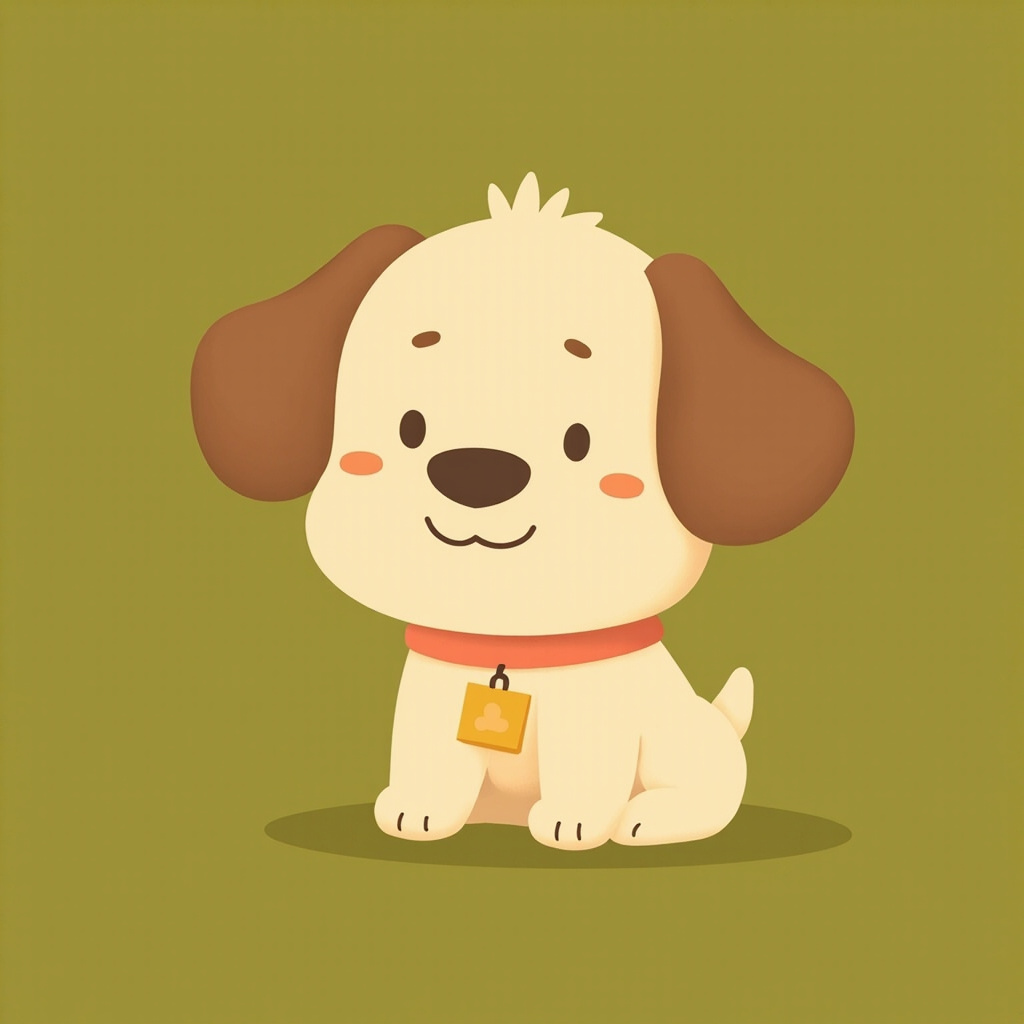
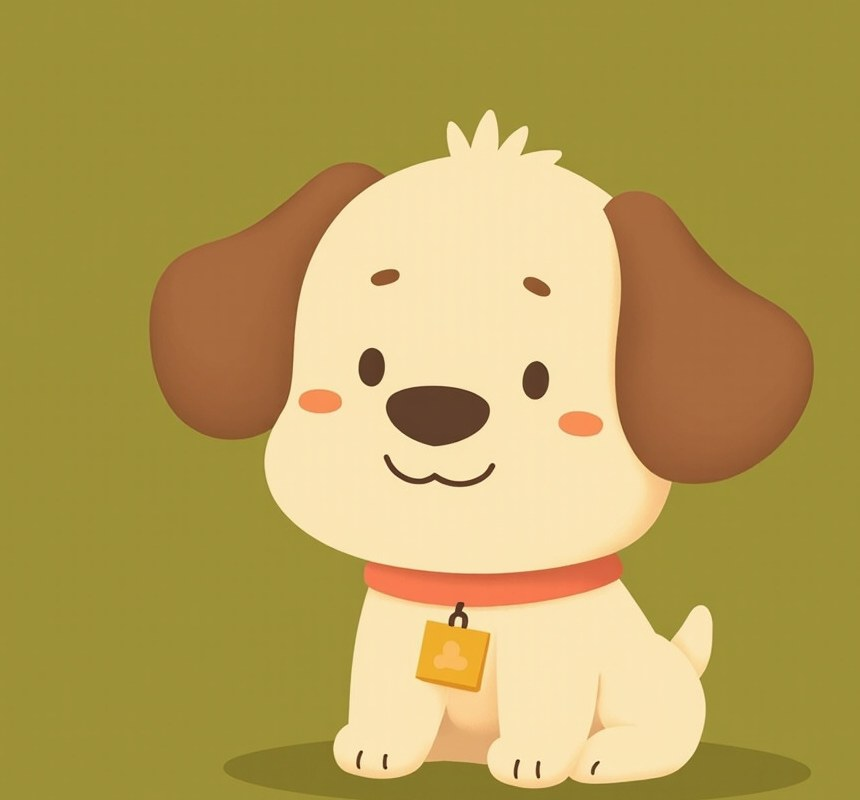
assets: chapter mascot scenes, 24 integrations, phosphor in marketing
- 4 chapter illustrations from the C1 pup via --subject-ref (checklist/alarm/plug/book), watermark band cropped via sharp before deploy
- connections screen expanded to 24 real-brand integrations (+13: GitLab, Jira, Confluence, Figma, Discord, Netlify, Railway, Expo, Supabase, Neon, Airtable, PostHog, Mixpanel, Docker, Google Cloud; new Design/Data categories, Connected count computed from data)
- phosphor icons in chapter eyebrows and FAQ toggle
- research/09 records watermark crop step for all future mmx outputs

diff --git a/site/components/demo/brand-marks.tsx b/site/components/demo/brand-marks.tsx
@@ -21,6 +21,21 @@ const marks: Record<string, Mark> = {
   vercel: { title: "Vercel", color: "#e4e4e7", tint: "#000000", path: "m12 1.608 12 20.784H0Z" },
   cloudflare: { title: "Cloudflare", color: "#F38020", tint: "#F38020", path: "M16.5088 16.8447c.1475-.5068.0908-.9707-.1553-1.3154-.2246-.3164-.6045-.499-1.0615-.5205l-8.6592-.1123a.1559.1559 0 0 1-.1333-.0713c-.0283-.042-.0351-.0986-.021-.1553.0278-.084.1123-.1484.2036-.1562l8.7359-.1123c1.0351-.0489 2.1601-.8868 2.5537-1.9136l.499-1.3013c.0215-.0561.0293-.1128.0147-.168-.5625-2.5463-2.835-4.4453-5.5499-4.4453-2.5039 0-4.6284 1.6177-5.3876 3.8614-.4927-.3658-1.1187-.5625-1.794-.499-1.2026.119-2.1665 1.083-2.2861 2.2856-.0283.31-.0069.6128.0635.894C1.5683 13.171 0 14.7754 0 16.752c0 .1748.0142.3515.0352.5273.0141.083.0844.1475.1689.1475h15.9814c.0909 0 .1758-.0645.2032-.1553l.12-.4268zm2.7568-5.5634c-.0771 0-.1611 0-.2383.0112-.0566 0-.1054.0415-.127.0976l-.3378 1.1744c-.1475.5068-.0918.9707.1543 1.3164.2256.3164.6055.498 1.0625.5195l1.8437.1133c.0557 0 .1055.0263.1329.0703.0283.043.0351.1074.0214.1562-.0283.084-.1132.1485-.204.1553l-1.921.1123c-1.041.0488-2.1582.8867-2.5527 1.914l-.1406.3585c-.0283.0713.0215.1416.0986.1416h6.5977c.0771 0 .1474-.0489.169-.126.1122-.4082.1757-.837.1757-1.2803 0-2.6025-2.125-4.727-4.7344-4.727" },
   stripe: { title: "Stripe", color: "#635BFF", tint: "#635BFF", path: "M13.976 9.15c-2.172-.806-3.356-1.426-3.356-2.409 0-.831.683-1.305 1.901-1.305 2.227 0 4.515.858 6.09 1.631l.89-5.494C18.252.975 15.697 0 12.165 0 9.667 0 7.589.654 6.104 1.872 4.56 3.147 3.757 4.992 3.757 7.218c0 4.039 2.467 5.76 6.476 7.219 2.585.92 3.445 1.574 3.445 2.583 0 .98-.84 1.545-2.354 1.545-1.875 0-4.965-.921-6.99-2.109l-.9 5.555C5.175 22.99 8.385 24 11.714 24c2.641 0 4.843-.624 6.328-1.813 1.664-1.305 2.525-3.236 2.525-5.732 0-4.128-2.524-5.851-6.594-7.305h.003z" },
+  jira: { title: "Jira", color: "#0052CC", tint: "#0052CC", path: "M11.571 11.513H0a5.218 5.218 0 0 0 5.232 5.215h2.13v2.057A5.215 5.215 0 0 0 12.575 24V12.518a1.005 1.005 0 0 0-1.005-1.005zm5.723-5.756H5.736a5.215 5.215 0 0 0 5.215 5.214h2.129v2.058a5.218 5.218 0 0 0 5.215 5.214V6.758a1.001 1.001 0 0 0-1.001-1.001zM23.013 0H11.455a5.215 5.215 0 0 0 5.215 5.215h2.129v2.057A5.215 5.215 0 0 0 24 12.483V1.005A1.001 1.001 0 0 0 23.013 0Z" },
+  confluence: { title: "Confluence", color: "#e4e4e7", tint: "#172B4D", path: "M.87 18.257c-.248.382-.53.875-.763 1.245a.764.764 0 0 0 .255 1.04l4.965 3.054a.764.764 0 0 0 1.058-.26c.199-.332.454-.763.733-1.221 1.967-3.247 3.945-2.853 7.508-1.146l4.957 2.337a.764.764 0 0 0 1.028-.382l2.364-5.346a.764.764 0 0 0-.382-1 599.851 599.851 0 0 1-4.965-2.361C10.911 10.97 5.224 11.185.87 18.257zM23.131 5.743c.249-.405.531-.875.764-1.25a.764.764 0 0 0-.256-1.034L18.675.404a.764.764 0 0 0-1.058.26c-.195.335-.451.763-.734 1.225-1.966 3.246-3.945 2.85-7.508 1.146L4.437.694a.764.764 0 0 0-1.027.382L1.046 6.422a.764.764 0 0 0 .382 1c1.039.49 3.105 1.467 4.965 2.361 6.698 3.246 12.392 3.029 16.738-4.04z" },
+  figma: { title: "Figma", color: "#F24E1E", tint: "#F24E1E", path: "M15.852 8.981h-4.588V0h4.588c2.476 0 4.49 2.014 4.49 4.49s-2.014 4.491-4.49 4.491zM12.735 7.51h3.117c1.665 0 3.019-1.355 3.019-3.019s-1.355-3.019-3.019-3.019h-3.117V7.51zm0 1.471H8.148c-2.476 0-4.49-2.014-4.49-4.49S5.672 0 8.148 0h4.588v8.981zm-4.587-7.51c-1.665 0-3.019 1.355-3.019 3.019s1.354 3.02 3.019 3.02h3.117V1.471H8.148zm4.587 15.019H8.148c-2.476 0-4.49-2.014-4.49-4.49s2.014-4.49 4.49-4.49h4.588v8.98zM8.148 8.981c-1.665 0-3.019 1.355-3.019 3.019s1.355 3.019 3.019 3.019h3.117V8.981H8.148zM8.172 24c-2.489 0-4.515-2.014-4.515-4.49s2.014-4.49 4.49-4.49h4.588v4.441c0 2.503-2.047 4.539-4.563 4.539zm-.024-7.51a3.023 3.023 0 0 0-3.019 3.019c0 1.665 1.365 3.019 3.044 3.019 1.705 0 3.093-1.376 3.093-3.068v-2.97H8.148zm7.704 0h-.098c-2.476 0-4.49-2.014-4.49-4.49s2.014-4.49 4.49-4.49h.098c2.476 0 4.49 2.014 4.49 4.49s-2.014 4.49-4.49 4.49zm-.097-7.509c-1.665 0-3.019 1.355-3.019 3.019s1.355 3.019 3.019 3.019h.098c1.665 0 3.019-1.355 3.019-3.019s-1.355-3.019-3.019-3.019h-.098z" },
+  discord: { title: "Discord", color: "#5865F2", tint: "#5865F2", path: "M20.317 4.3698a19.7913 19.7913 0 00-4.8851-1.5152.0741.0741 0 00-.0785.0371c-.211.3753-.4447.8648-.6083 1.2495-1.8447-.2762-3.68-.2762-5.4868 0-.1636-.3933-.4058-.8742-.6177-1.2495a.077.077 0 00-.0785-.037 19.7363 19.7363 0 00-4.8852 1.515.0699.0699 0 00-.0321.0277C.5334 9.0458-.319 13.5799.0992 18.0578a.0824.0824 0 00.0312.0561c2.0528 1.5076 4.0413 2.4228 5.9929 3.0294a.0777.0777 0 00.0842-.0276c.4616-.6304.8731-1.2952 1.226-1.9942a.076.076 0 00-.0416-.1057c-.6528-.2476-1.2743-.5495-1.8722-.8923a.077.077 0 01-.0076-.1277c.1258-.0943.2517-.1923.3718-.2914a.0743.0743 0 01.0776-.0105c3.9278 1.7933 8.18 1.7933 12.0614 0a.0739.0739 0 01.0785.0095c.1202.099.246.1981.3728.2924a.077.077 0 01-.0066.1276 12.2986 12.2986 0 01-1.873.8914.0766.0766 0 00-.0407.1067c.3604.698.7719 1.3628 1.225 1.9932a.076.076 0 00.0842.0286c1.961-.6067 3.9495-1.5219 6.0023-3.0294a.077.077 0 00.0313-.0552c.5004-5.177-.8382-9.6739-3.5485-13.6604a.061.061 0 00-.0312-.0286zM8.02 15.3312c-1.1825 0-2.1569-1.0857-2.1569-2.419 0-1.3332.9555-2.4189 2.157-2.4189 1.2108 0 2.1757 1.0952 2.1568 2.419 0 1.3332-.9555 2.4189-2.1569 2.4189zm7.9748 0c-1.1825 0-2.1569-1.0857-2.1569-2.419 0-1.3332.9554-2.4189 2.1569-2.4189 1.2108 0 2.1757 1.0952 2.1568 2.419 0 1.3332-.946 2.4189-2.1568 2.4189Z" },
+  netlify: { title: "Netlify", color: "#00C7B7", tint: "#00C7B7", path: "M6.49 19.04h-.23L5.13 17.9v-.23l1.73-1.71h1.2l.15.15v1.2L6.5 19.04ZM5.13 6.31V6.1l1.13-1.13h.23L8.2 6.68v1.2l-.15.15h-1.2L5.13 6.31Zm9.96 9.09h-1.65l-.14-.13v-3.83c0-.68-.27-1.2-1.1-1.23-.42 0-.9 0-1.43.02l-.07.08v4.96l-.14.14H8.9l-.13-.14V8.73l.13-.14h3.7a2.6 2.6 0 0 1 2.61 2.6v4.08l-.13.14Zm-8.37-2.44H.14L0 12.82v-1.64l.14-.14h6.58l.14.14v1.64l-.14.14Zm17.14 0h-6.58l-.14-.14v-1.64l.14-.14h6.58l.14.14v1.64l-.14.14ZM11.05 6.55V1.64l.14-.14h1.65l.14.14v4.9l-.14.14h-1.65l-.14-.13Zm0 15.81v-4.9l.14-.14h1.65l.14.13v4.91l-.14.14h-1.65l-.14-.14Z" },
+  railway: { title: "Railway", color: "#e4e4e7", tint: "#0B0D0E", path: "M.113 10.27A13.026 13.026 0 000 11.48h18.23c-.064-.125-.15-.237-.235-.347-3.117-4.027-4.793-3.677-7.19-3.78-.8-.034-1.34-.048-4.524-.048-1.704 0-3.555.005-5.358.01-.234.63-.459 1.24-.567 1.737h9.342v1.216H.113v.002zm18.26 2.426H.009c.02.326.05.645.094.961h16.955c.754 0 1.179-.429 1.315-.96zm-17.318 4.28s2.81 6.902 10.93 7.024c4.855 0 9.027-2.883 10.92-7.024H1.056zM11.988 0C7.5 0 3.593 2.466 1.531 6.108l4.75-.005v-.002c3.71 0 3.849.016 4.573.047l.448.016c1.563.052 3.485.22 4.996 1.364.82.621 2.007 1.99 2.712 2.965.654.902.842 1.94.396 2.934-.408.914-1.289 1.458-2.353 1.458H.391s.099.42.249.886h22.748A12.026 12.026 0 0024 12.005C24 5.377 18.621 0 11.988 0z" },
+  expo: { title: "Expo", color: "#e4e4e7", tint: "#1C2024", path: "M0 20.084c.043.53.23 1.063.718 1.778.58.849 1.576 1.315 2.303.567.49-.505 5.794-9.776 8.35-13.29a.761.761 0 011.248 0c2.556 3.514 7.86 12.785 8.35 13.29.727.748 1.723.282 2.303-.567.57-.835.728-1.42.728-2.046 0-.426-8.26-15.798-9.092-17.078-.8-1.23-1.044-1.498-2.397-1.542h-1.032c-1.353.044-1.597.311-2.398 1.542C8.267 3.991.33 18.758 0 19.77Z" },
+  airtable: { title: "Airtable", color: "#18BFFF", tint: "#18BFFF", path: "M11.992 1.966c-.434 0-.87.086-1.28.257L1.779 5.917c-.503.208-.49.908.012 1.116l8.982 3.558a3.266 3.266 0 0 0 2.454 0l8.982-3.558c.503-.196.503-.908.012-1.116l-8.957-3.694a3.255 3.255 0 0 0-1.272-.257zM23.4 8.056a.589.589 0 0 0-.222.045l-10.012 3.877a.612.612 0 0 0-.38.564v8.896a.6.6 0 0 0 .821.552L23.62 18.1a.583.583 0 0 0 .38-.551V8.653a.6.6 0 0 0-.6-.596zM.676 8.095a.644.644 0 0 0-.48.19C.086 8.396 0 8.53 0 8.69v8.355c0 .442.515.737.908.54l6.27-3.006.307-.147 2.969-1.436c.466-.22.43-.908-.061-1.092L.883 8.138a.57.57 0 0 0-.207-.044z" },
+  supabase: { title: "Supabase", color: "#3FCF8E", tint: "#3FCF8E", path: "M11.9 1.036c-.015-.986-1.26-1.41-1.874-.637L.764 12.05C-.33 13.427.65 15.455 2.409 15.455h9.579l.113 7.51c.014.985 1.259 1.408 1.873.636l9.262-11.653c1.093-1.375.113-3.403-1.645-3.403h-9.642z" },
+  neon: { title: "Neon", color: "#34D59A", tint: "#34D59A", path: "M24 0V24l-9.365-8.045V24H0V0ZM2.942 21.087h8.751V9.563l9.365 8.204V2.919L2.942 2.914Z" },
+  mixpanel: { title: "Mixpanel", color: "#7856FF", tint: "#7856FF", path: "M6.967 9.996h3.053c-.763-.477-1.048-1.145-1.431-2.384L7.443 3.366C6.919 1.458 6.49.551 4.39.551H.004v1.145h.621c1.286 0 1.431.477 1.814 1.908L3.44 7.326c.524 1.814 1.337 2.67 3.53 2.67h-.003Zm7.06 0h3.053c2.194 0 2.956-.86 3.484-2.67l1.001-3.722c.382-1.431.57-1.908 1.814-1.908H24V.551h-4.34c-2.146 0-2.576.86-3.053 2.815l-1.145 4.246c-.384 1.286-.673 1.907-1.435 2.384Zm-4.007 4.008h4.007V9.996H10.02v4.008ZM0 23.449h4.39c2.1 0 2.529-.907 3.053-2.815l1.146-4.246c.383-1.239.668-1.907 1.431-2.384H6.967c-2.194 0-3.007.86-3.531 2.67l-1.001 3.722c-.383 1.431-.524 1.907-1.814 1.907H0v1.146Zm19.65 0h4.343v-1.146h-.622c-1.239 0-1.431-.476-1.814-1.907l-1.001-3.722c-.524-1.814-1.286-2.67-3.483-2.67h-3.046c.762.477 1.041 1.098 1.424 2.384l1.145 4.246c.477 1.955.907 2.815 3.054 2.815Z" },
+  posthog: { title: "PostHog", color: "#e4e4e7", tint: "#000000", path: "M9.854 14.5 5 9.647.854 5.5A.5.5 0 0 0 0 5.854V8.44a.5.5 0 0 0 .146.353L5 13.647l.147.146L9.854 18.5l.146.147v-.049c.065.03.134.049.207.049h2.586a.5.5 0 0 0 .353-.854L9.854 14.5zm0-5-4-4a.487.487 0 0 0-.409-.144.515.515 0 0 0-.356.21.493.493 0 0 0-.089.288V8.44a.5.5 0 0 0 .147.353l9 9a.5.5 0 0 0 .853-.354v-2.585a.5.5 0 0 0-.146-.354l-5-5zm1-4a.5.5 0 0 0-.854.354V8.44a.5.5 0 0 0 .147.353l4 4a.5.5 0 0 0 .853-.354V9.854a.5.5 0 0 0-.146-.354l-4-4zm12.647 11.515a3.863 3.863 0 0 1-2.232-1.1l-4.708-4.707a.5.5 0 0 0-.854.354v6.585a.5.5 0 0 0 .5.5H23.5a.5.5 0 0 0 .5-.5v-.6c0-.276-.225-.497-.499-.532zm-5.394.032a.8.8 0 1 1 0-1.6.8.8 0 0 1 0 1.6zM.854 15.5a.5.5 0 0 0-.854.354v2.293a.5.5 0 0 0 .5.5h2.293c.222 0 .39-.135.462-.309a.493.493 0 0 0-.109-.545L.854 15.501zM5 14.647.854 10.5a.5.5 0 0 0-.854.353v2.586a.5.5 0 0 0 .146.353L4.854 18.5l.146.147h2.793a.5.5 0 0 0 .353-.854L5 14.647z" },
+  gitlab: { title: "GitLab", color: "#FC6D26", tint: "#FC6D26", path: "m23.6004 9.5927-.0337-.0862L20.3.9814a.851.851 0 0 0-.3362-.405.8748.8748 0 0 0-.9997.0539.8748.8748 0 0 0-.29.4399l-2.2055 6.748H7.5375l-2.2057-6.748a.8573.8573 0 0 0-.29-.4412.8748.8748 0 0 0-.9997-.0537.8585.8585 0 0 0-.3362.4049L.4332 9.5015l-.0325.0862a6.0657 6.0657 0 0 0 2.0119 7.0105l.0113.0087.03.0213 4.976 3.7264 2.462 1.8633 1.4995 1.1321a1.0085 1.0085 0 0 0 1.2197 0l1.4995-1.1321 2.4619-1.8633 5.006-3.7489.0125-.01a6.0682 6.0682 0 0 0 2.0094-7.003z" },
+  docker: { title: "Docker", color: "#2496ED", tint: "#2496ED", path: "M13.983 11.078h2.119a.186.186 0 00.186-.185V9.006a.186.186 0 00-.186-.186h-2.119a.185.185 0 00-.185.185v1.888c0 .102.083.185.185.185m-2.954-5.43h2.118a.186.186 0 00.186-.186V3.574a.186.186 0 00-.186-.185h-2.118a.185.185 0 00-.185.185v1.888c0 .102.082.185.185.185m0 2.716h2.118a.187.187 0 00.186-.186V6.29a.186.186 0 00-.186-.185h-2.118a.185.185 0 00-.185.185v1.887c0 .102.082.185.185.186m-2.93 0h2.12a.186.186 0 00.184-.186V6.29a.185.185 0 00-.185-.185H8.1a.185.185 0 00-.185.185v1.887c0 .102.083.185.185.186m-2.964 0h2.119a.186.186 0 00.185-.186V6.29a.185.185 0 00-.185-.185H5.136a.186.186 0 00-.186.185v1.887c0 .102.084.185.186.186m5.893 2.715h2.118a.186.186 0 00.186-.185V9.006a.186.186 0 00-.186-.186h-2.118a.185.185 0 00-.185.185v1.888c0 .102.082.185.185.185m-2.93 0h2.12a.185.185 0 00.184-.185V9.006a.185.185 0 00-.184-.186h-2.12a.185.185 0 00-.184.185v1.888c0 .102.083.185.185.185m-2.964 0h2.119a.185.185 0 00.185-.185V9.006a.185.185 0 00-.184-.186h-2.12a.186.186 0 00-.186.186v1.887c0 .102.084.185.186.185m-2.92 0h2.12a.185.185 0 00.184-.185V9.006a.185.185 0 00-.184-.186h-2.12a.185.185 0 00-.184.185v1.888c0 .102.082.185.185.185M23.763 9.89c-.065-.051-.672-.51-1.954-.51-.338.001-.676.03-1.01.087-.248-1.7-1.653-2.53-1.716-2.566l-.344-.199-.226.327c-.284.438-.49.922-.612 1.43-.23.97-.09 1.882.403 2.661-.595.332-1.55.413-1.744.42H.751a.751.751 0 00-.75.748 11.376 11.376 0 00.692 4.062c.545 1.428 1.355 2.48 2.41 3.124 1.18.723 3.1 1.137 5.275 1.137.983.003 1.963-.086 2.93-.266a12.248 12.248 0 003.823-1.389c.98-.567 1.86-1.288 2.61-2.136 1.252-1.418 1.998-2.997 2.553-4.4h.221c1.372 0 2.215-.549 2.68-1.009.309-.293.55-.65.707-1.046l.098-.288Z" },
+  googlecloud: { title: "Google Cloud", color: "#4285F4", tint: "#4285F4", path: "M12.19 2.38a9.344 9.344 0 0 0-9.234 6.893c.053-.02-.055.013 0 0-3.875 2.551-3.922 8.11-.247 10.941l.006-.007-.007.03a6.717 6.717 0 0 0 4.077 1.356h5.173l.03.03h5.192c6.687.053 9.376-8.605 3.835-12.35a9.365 9.365 0 0 0-2.821-4.552l-.043.043.006-.05A9.344 9.344 0 0 0 12.19 2.38zm-.358 4.146c1.244-.04 2.518.368 3.486 1.15a5.186 5.186 0 0 1 1.862 4.078v.518c3.53-.07 3.53 5.262 0 5.193h-5.193l-.008.009v-.04H6.785a2.59 2.59 0 0 1-1.067-.23h.001a2.597 2.597 0 1 1 3.437-3.437l3.013-3.012A6.747 6.747 0 0 0 8.11 8.24c.018-.01.04-.026.054-.023a5.186 5.186 0 0 1 3.67-1.69z" },
   codex: { title: "OpenAI", color: "#e4e4e7", tint: "#10a37f", path: "M9.205 8.658v-2.26c0-.19.072-.333.238-.428l4.543-2.616c.619-.357 1.356-.523 2.117-.523 2.854 0 4.662 2.212 4.662 4.566 0 .167 0 .357-.024.547l-4.71-2.759a.797.797 0 00-.856 0l-5.97 3.473zm10.609 8.8V12.06c0-.333-.143-.57-.429-.737l-5.97-3.473 1.95-1.118a.433.433 0 01.476 0l4.543 2.617c1.309.76 2.189 2.378 2.189 3.948 0 1.808-1.07 3.473-2.76 4.163zM7.802 12.703l-1.95-1.142c-.167-.095-.239-.238-.239-.428V5.899c0-2.545 1.95-4.472 4.591-4.472 1 0 1.927.333 2.712.928L8.23 5.067c-.285.166-.428.404-.428.737v6.898zM12 15.128l-2.795-1.57v-3.33L12 8.658l2.795 1.57v3.33L12 15.128zm1.796 7.23c-1 0-1.927-.332-2.712-.927l4.686-2.712c.285-.166.428-.404.428-.737v-6.898l1.974 1.142c.167.095.238.238.238.428v5.233c0 2.545-1.974 4.472-4.614 4.472zm-5.637-5.303l-4.544-2.617c-1.308-.761-2.188-2.378-2.188-3.948A4.482 4.482 0 014.21 6.327v5.423c0 .333.143.571.428.738l5.947 3.449-1.95 1.118a.432.432 0 01-.476 0zm-.262 3.9c-2.688 0-4.662-2.021-4.662-4.519 0-.19.024-.38.047-.57l4.686 2.71c.286.167.571.167.856 0l5.97-3.448v2.26c0 .19-.07.333-.237.428l-4.543 2.616c-.619.357-1.356.523-2.117.523zm5.899 2.83a5.947 5.947 0 005.827-4.756C22.287 18.339 24 15.84 24 13.296c0-1.665-.713-3.282-1.998-4.448.119-.5.19-.999.19-1.498 0-3.401-2.759-5.947-5.946-5.947-.642 0-1.26.095-1.88.31A5.962 5.962 0 0010.205 0a5.947 5.947 0 00-5.827 4.757C1.713 5.447 0 7.945 0 10.49c0 1.666.713 3.283 1.998 4.448-.119.5-.19 1-.19 1.499 0 3.401 2.759 5.946 5.946 5.946.642 0 1.26-.095 1.88-.309a5.96 5.96 0 004.162 1.713z" },
 };
 

diff --git a/site/lib/demo/mock-data.ts b/site/lib/demo/mock-data.ts
@@ -265,9 +265,11 @@ export const schedules: ScheduleRow[] = [
 export type ConnectionCategory =
   | "Code & issues"
   | "Docs"
+  | "Design"
   | "Chat"
   | "Monitoring"
   | "Cloud"
+  | "Data"
   | "Payments";
 
 export type Connection = {
@@ -279,19 +281,6 @@ export type Connection = {
   connected: boolean;
   blurb: string;
 };
-
-export const connectionCategories: Array<
-  "All" | `Connected ${number}` | ConnectionCategory
-> = [
-  "All",
-  "Connected 3",
-  "Code & issues",
-  "Docs",
-  "Chat",
-  "Monitoring",
-  "Cloud",
-  "Payments",
-];
 
 export const connections: Connection[] = [
   {
@@ -358,6 +347,126 @@ export const connections: Connection[] = [
     connected: false,
     blurb: "Payments, invoices and revenue events as they happen.",
   },
+  {
+    name: "GitLab",
+    logo: "gitlab",
+    category: "Code & issues",
+    connected: false,
+    blurb: "Merge requests, pipelines and registry in one place.",
+  },
+  {
+    name: "Jira",
+    logo: "jira",
+    category: "Code & issues",
+    connected: false,
+    blurb: "Issues and sprints for teams already wired into Jira.",
+  },
+  {
+    name: "Confluence",
+    logo: "confluence",
+    category: "Docs",
+    connected: false,
+    blurb: "Long-form docs and decision records where they already live.",
+  },
+  {
+    name: "Figma",
+    logo: "figma",
+    category: "Design",
+    connected: false,
+    blurb: "Design files and frames agents can read for specs.",
+  },
+  {
+    name: "Discord",
+    logo: "discord",
+    category: "Chat",
+    connected: false,
+    blurb: "Community channels that never sleep.",
+  },
+  {
+    name: "Netlify",
+    logo: "netlify",
+    category: "Cloud",
+    connected: false,
+    blurb: "Deploy previews and instant rollbacks for static sites.",
+  },
+  {
+    name: "Railway",
+    logo: "railway",
+    category: "Cloud",
+    connected: false,
+    blurb: "Services and databases provisioned from a config.",
+  },
+  {
+    name: "Expo",
+    logo: "expo",
+    category: "Cloud",
+    connected: false,
+    blurb: "Mobile builds and OTA updates for React Native apps.",
+  },
+  {
+    name: "Supabase",
+    logo: "supabase",
+    category: "Data",
+    connected: true,
+    blurb: "Postgres, auth and storage behind one API.",
+  },
+  {
+    name: "Neon",
+    logo: "neon",
+    category: "Data",
+    connected: false,
+    blurb: "Serverless Postgres with database branching.",
+  },
+  {
+    name: "Airtable",
+    logo: "airtable",
+    category: "Data",
+    connected: false,
+    blurb: "Spreadsheet-databases the team keeps its plans in.",
+  },
+  {
+    name: "PostHog",
+    logo: "posthog",
+    category: "Monitoring",
+    connected: false,
+    blurb: "Product analytics with funnels and session replay.",
+  },
+  {
+    name: "Mixpanel",
+    logo: "mixpanel",
+    category: "Monitoring",
+    connected: false,
+    blurb: "Event funnels and retention for the product surface.",
+  },
+  {
+    name: "Docker",
+    logo: "docker",
+    category: "Cloud",
+    connected: false,
+    blurb: "Images and registries behind every deploy.",
+  },
+  {
+    name: "Google Cloud",
+    logo: "googlecloud",
+    category: "Cloud",
+    connected: false,
+    blurb: "Buckets, queues and functions on GCP.",
+  },
+];
+
+export const connectionCategories: Array<
+  "All" | `Connected ${number}` | ConnectionCategory
+> = [
+  "All",
+  `Connected ${connections.filter((c) => c.connected).length}`,
+  "Code & issues",
+  "Docs",
+  "Design",
+  "Chat",
+  "Monitoring",
+  "Cloud",
+  "Data",
+  "Payments",
 ];
 
 /* ── Skills（原创条目）─────────────────────────────────────────── */

diff --git a/site/components/marketing/DemoStorySection.tsx b/site/components/marketing/DemoStorySection.tsx
@@ -1,4 +1,11 @@
+import Image from "next/image";
 import { ProductDemo } from "@/components/demo/ProductDemo";
+import {
+  IconClock,
+  IconGrid,
+  IconKanban,
+  IconSpark,
+} from "@/components/demo/icons-phosphor";
 
 /**
  * Demo 区：普通文档流（不钉住、不随滚动切屏）。
@@ -20,55 +27,85 @@ type Chapter = {
   eyebrow: string;
   title: string;
   text: string;
+  illustration: string;
+  icon: "kanban" | "clock" | "grid" | "spark";
 };
 
-/** demo 下方的四章静态说明（所有断通吃） */
+/** demo 下方的四章静态说明（吉祥物插图 + Phosphor 图标） */
 const chapters: Chapter[] = [
   {
     screen: "workspace",
     eyebrow: "01 · Delegate",
     title: "Hand a goal to your chief agent",
     text: "Describe the outcome. The chief splits it into todos, assigns the right agent to each, and runs them in parallel — progress lands card by card.",
+    illustration: "/ip/chapter-delegate.jpg",
+    icon: "kanban",
   },
   {
     screen: "schedules",
     eyebrow: "02 · Automate",
     title: "Work that repeats itself",
     text: "Schedules run any task on a cadence — digests, checks, publishing — and leave a trail of what ran, when, and what it found.",
+    illustration: "/ip/chapter-automate.jpg",
+    icon: "clock",
   },
   {
     screen: "connections",
     eyebrow: "03 · Connect",
     title: "Your stack, readable by agents",
     text: "Connect the tools your work already lives in. Agents read issues, docs, errors and deploys with the context they need.",
+    illustration: "/ip/chapter-connect.jpg",
+    icon: "grid",
   },
   {
     screen: "skills",
     eyebrow: "04 · Reuse",
     title: "Know-how that compounds",
     text: "Package your conventions into skills. Every agent, on every run, works the way your team already does.",
+    illustration: "/ip/chapter-reuse.jpg",
+    icon: "spark",
   },
 ];
+
+const chapterIcons = {
+  kanban: IconKanban,
+  clock: IconClock,
+  grid: IconGrid,
+  spark: IconSpark,
+} as const;
 
 export function DemoChaptersStatic() {
   return (
     <div id="features" className="mx-auto max-w-2xl px-6 pt-4">
-      {chapters.map((c) => (
-        <div
-          key={c.screen}
-          className="border-t border-line py-9 first:border-t-0"
-        >
-          <p className="font-mono text-[11px] tracking-[0.14em] text-[#7c86f2]">
-            {c.eyebrow}
-          </p>
-          <h3 className="mt-2 text-[17px] font-semibold text-content">
-            {c.title}
-          </h3>
-          <p className="mt-2 text-[13.5px] leading-relaxed text-content-tertiary">
-            {c.text}
-          </p>
-        </div>
-      ))}
+      {chapters.map((c) => {
+        const I = chapterIcons[c.icon];
+        return (
+          <div
+            key={c.screen}
+            className="flex items-start gap-4 border-t border-line py-9 first:border-t-0"
+          >
+            <Image
+              src={c.illustration}
+              alt=""
+              width={56}
+              height={56}
+              className="h-14 w-14 flex-shrink-0 rounded-xl object-cover ring-1 ring-white/10"
+            />
+            <div className="min-w-0">
+              <p className="flex items-center gap-1.5 font-mono text-[11px] tracking-[0.14em] text-[#7c86f2]">
+                <I size={13} />
+                {c.eyebrow}
+              </p>
+              <h3 className="mt-2 text-[17px] font-semibold text-content">
+                {c.title}
+              </h3>
+              <p className="mt-2 text-[13.5px] leading-relaxed text-content-tertiary">
+                {c.text}
+              </p>
+            </div>
+          </div>
+        );
+      })}
     </div>
   );
 }

diff --git a/site/components/marketing/Faq.tsx b/site/components/marketing/Faq.tsx
@@ -1,3 +1,5 @@
+import { IconPlus } from "@/components/demo/icons-phosphor";
+
 const faqs = [
   {
     q: "What is relay?",
@@ -32,20 +34,10 @@ export function Faq() {
           <details key={f.q} className="group border-b border-line">
             <summary className="flex cursor-pointer list-none items-center justify-between gap-4 py-4 text-[14px] font-medium text-content [&::-webkit-details-marker]:hidden">
               {f.q}
-              <span className="flex h-5 w-5 flex-shrink-0 items-center justify-center text-content-tertiary transition-transform duration-200 group-open:rotate-45">
-                <svg
-                  width="12"
-                  height="12"
-                  viewBox="0 0 24 24"
-                  fill="none"
-                  stroke="currentColor"
-                  strokeWidth="2"
-                  strokeLinecap="round"
-                  aria-hidden="true"
-                >
-                  <path d="M5 12h14M12 5v14" />
-                </svg>
-              </span>
+              <IconPlus
+                size={12}
+                className="flex-shrink-0 text-content-tertiary transition-transform duration-200 group-open:rotate-45"
+              />
             </summary>
             <p className="pb-4 pr-8 text-[13.5px] leading-relaxed text-content-tertiary">
               {f.a}

diff --git a/research/09-ip-candidates.md b/research/09-ip-candidates.md
@@ -37,3 +37,9 @@
 ## Phosphor 图标
 
 `site/components/demo/icons-phosphor.tsx`（33 个组件）由 `temp/assets/@phosphor-icons/core` 包的 regular 集生成（Phosphor Icons MIT）。注意： phosphor CLI 的联网兜底在本机被墙，直接读包内 SVG 即可。
+
+## 深度素材批次（2026-10-05 下午，第二弹）
+
+- **四章吉祥物插图**（`public/ip/chapter-{delegate,automate,connect,reuse}.jpg`）：以 C1 为 `--subject-ref` 生成的同角色场景图（清单/闹钟/插头/书本），用于 demo 下方四章说明，每章配 Phosphor 图标。
+- **Connections 扩建到 24 个集成**（新增 13 个品牌：GitLab/Jira/Confluence/Figma/Discord/Netlify/Railway/Expo/Supabase/Neon/Airtable/PostHog/Mixpanel/Docker/Google Cloud，含 Design/Data 两个新分类），Connected 计数改为动态计算。
+- **部署裁切**：mmx 输出角落实测带极小渠道水印文字（`©UHD …Photvt.com` 等，pipeline 里被 pipeline 发现），已用 sharp 统一裁去四边 8% 区域（`temp/assets/crop-watermarks.mjs`）；候选原图未动。后续 mmx 产物上线前一律走此裁切。
